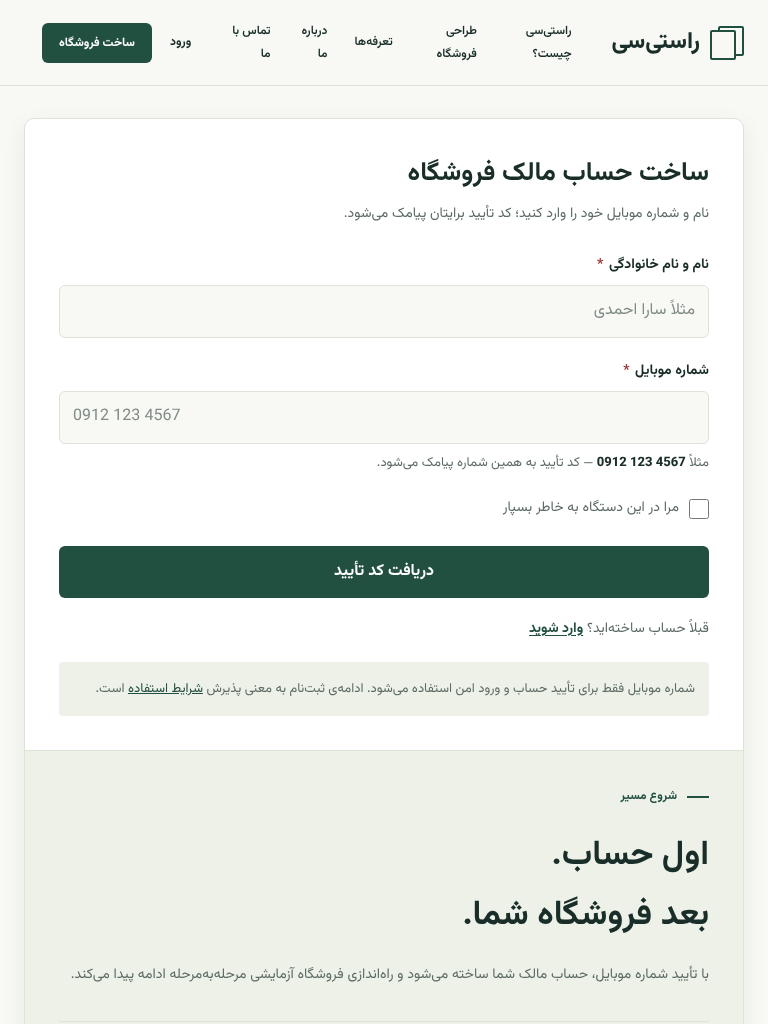
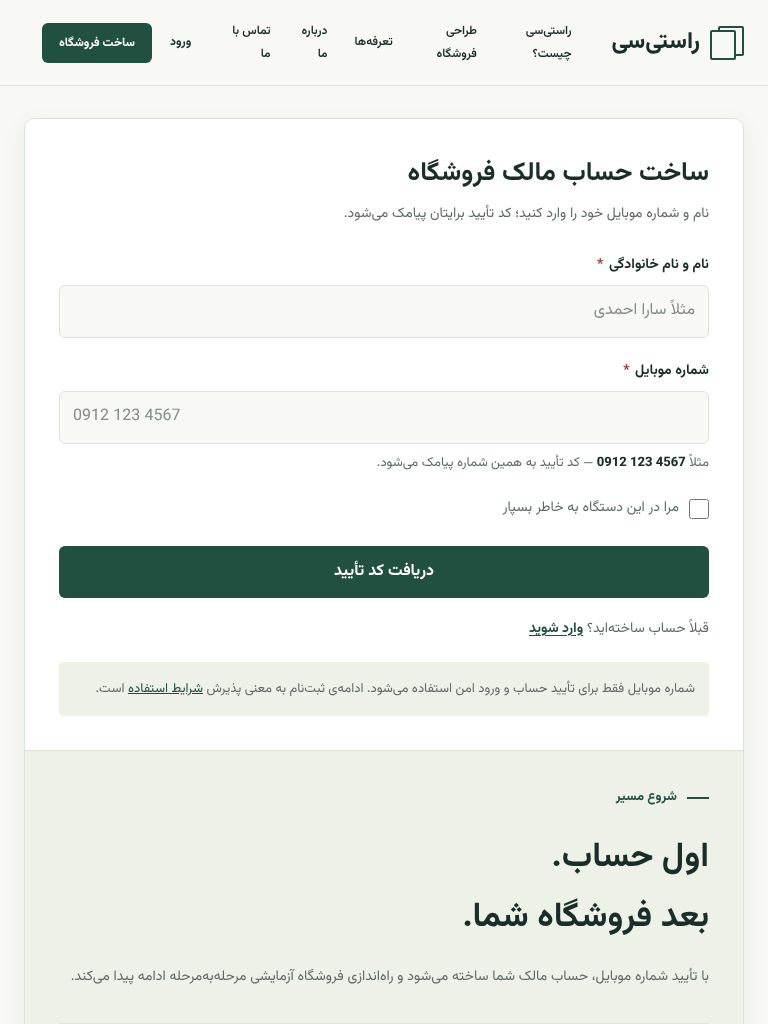
Owner registration: final test/screenshot refresh
- Update expired-code view test for the single-message UX
- Refresh QA screenshots (register 1440/390/768) on the final CSS

Claude-Session: https://claude.ai/code/session_01GYaXzFoBwixCdEBfxXZJWb

diff --git a/apps/portal/tests/test_owner_registration_hardening.py b/apps/portal/tests/test_owner_registration_hardening.py
@@ -744,7 +744,8 @@ class OtpVerificationTests(_OtpTestMixin, TestCase):
         OwnerOtpChallenge.objects.update(expires_at=timezone.now() - timedelta(seconds=1))
         response = self.verify()
         self.assertContains(response, "این کد منقضی یا قبلاً استفاده شده است")
-        self.assertContains(response, "این کد منقضی شده است؛ کد جدید دریافت کنید.")
+        # One message only: the validity hint is hidden when the error already says so.
+        self.assertNotContains(response, 'id="id_code_hint"')
 
     def test_locked_code_message_at_the_view(self):
         self.register()
